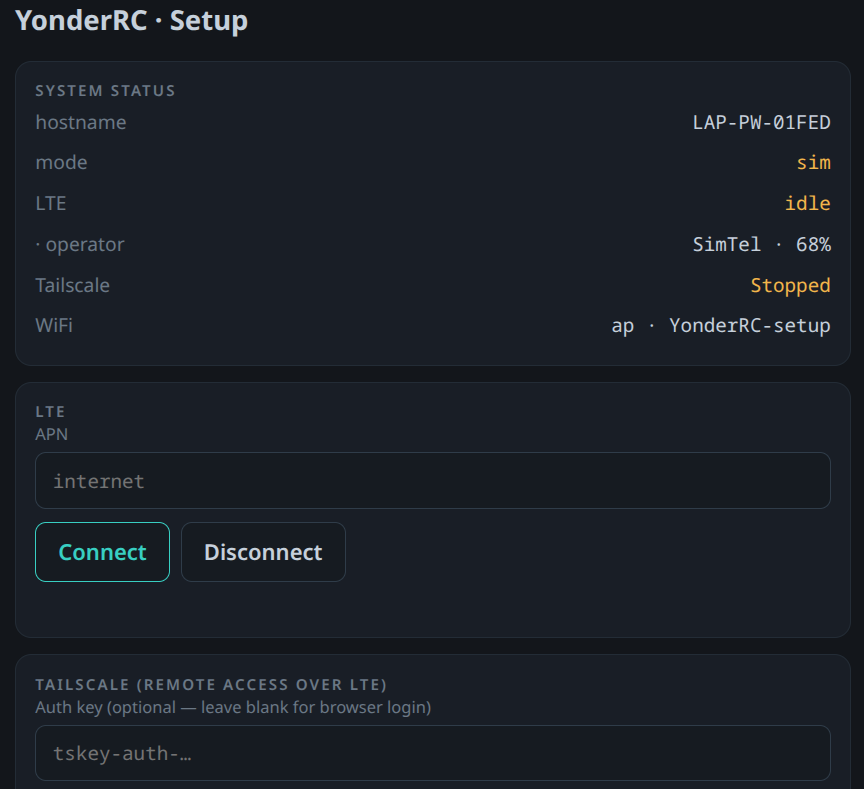
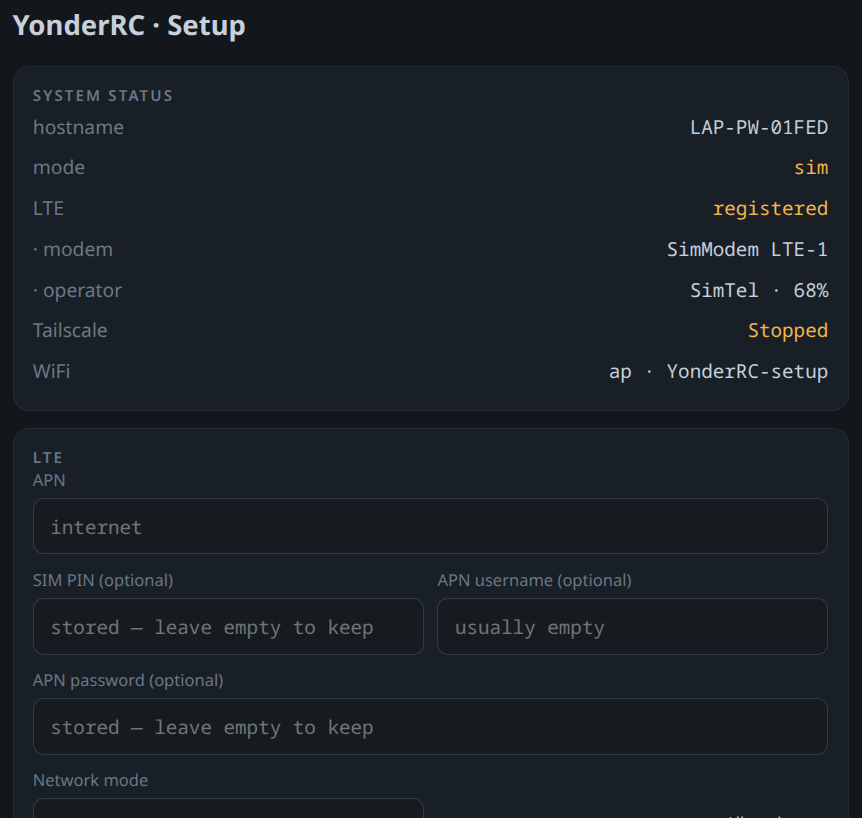
docs: refresh screenshots (v1.20.4) + update README captions (EN/DE) — GPS/home compass/odometer/speed, link signal, richer LTE setup, Setup↗, WebRTC toggle

diff --git a/README.de.md b/README.de.md
@@ -11,10 +11,12 @@ Alles ist **im Simulator lauffähig — ganz ohne Hardware**. Für den echten Au
 auf dem Pi (Teileliste, Verkabelung, Schritt für Schritt WLAN → LTE) siehe
 [`docs/HARDWARE.de.md`](docs/HARDWARE.de.md).
 
-![Bodenstation im Fahrbetrieb: FPV-Video mit OSD — Akku-Ladebalken oben rechts, Link/Latenz und Akkudaten unten rechts, Kanalbalken unten links](docs/screenshots/Overview_OSD.png)
+![Bodenstation im Fahrbetrieb: FPV-Video mit vollem OSD — GPS-Fix und Home-Kompass mit Distanz, Odometer und Speed oben links, Akku-Balken oben rechts, Link-Signal und Stats unten rechts](docs/screenshots/Overview_OSD.png)
 
-*Bodenstation im Fahrbetrieb: latenzarmes FPV-Video mit OSD — Akku-Ladebalken oben
-rechts, Link/Latenz-Daten und Spannung/Strom/Kapazität unten rechts.*
+*Bodenstation im Fahrbetrieb: latenzarmes FPV mit vollem OSD — GPS-Fix + **Home-Kompass,
+Distanz, Odometer und Speed** (oben links), Akku-Balken (oben rechts) sowie das
+**Link-Signal** + Steuer-/Video-Latenz, Bitrate, FPS und Loss (unten rechts). Ein
+**Setup ↗**-Shortcut öffnet die Setup-Seite des Fahrzeugs.*
 
 ---
 
@@ -27,10 +29,11 @@ rechts, Link/Latenz-Daten und Spannung/Strom/Kapazität unten rechts.*
   wählbarer Eingabemethode und pro Achse einstellbarem Einrasten (Mitte/Min/frei).
 - Pro Kanal Trim, Expo, Reverse, Endpunkte (µs) und Failsafe-Wert.
 
-![Touch-Steuerung mit Gas-/Lenk-Joysticks, Lights/Horn-Buttons und Status-Leiste](docs/screenshots/TouchInputs_and_Status.png)
+![Touch-Steuerung mit Gas-/Lenk-Joysticks, Lights/Horn-Buttons, WebRTC-Steuerschalter und Status-Leiste](docs/screenshots/TouchInputs_and_Status.png)
 
-*Touch-Steuerung (Multitouch-Joysticks, belegbare Buttons) mit Status-Leiste:
-Link, Zustand, Round-Trip, Eingabemethode, Fahrzeug/Treiber, Telemetrie.*
+*Touch-Steuerung (Multitouch-Joysticks, belegbare Buttons), der optionale
+**WebRTC-Steuerkanal**-Schalter und eine Status-Leiste: Link, Zustand, Round-Trip,
+Eingabemethode, Fahrzeug/Treiber, Telemetrie.*
 
 **Sicherheit**
 - Zeitbasierter **Failsafe-Watchdog**: bleiben Steuer-Frames aus, gehen alle Kanäle
@@ -88,10 +91,11 @@ Disarm — der Throttle-Kanal wird sichtbar sicher gehalten, solange disarmed.*
   Bildschirm. Die Boden-App hat einen **„Setup ↗"-Shortcut**, der sie für das
   verbundene Fahrzeug öffnet (im LAN, über den AP des Pi oder eine VPN-Adresse).
 
-  ![Setup-Seite des Fahrzeugs: System-Status, LTE-APN, Tailscale](docs/screenshots/VehicleConfig_Setup.png)
+  ![Setup-Seite des Fahrzeugs: System-Status (LTE-Modem, Betreiber, Tailscale, WiFi) und der LTE-Bereich mit APN, SIM-PIN, APN-Auth und Netzmodus](docs/screenshots/VehicleConfig_Setup.png)
 
-  *Setup-Seite direkt vom Fahrzeug: System-Status (Modus, LTE, Fernzugriff, WiFi)
-  und die gesamte Konfiguration — bedienbar vom Handy ohne Bildschirm.*
+  *Setup-Seite direkt vom Fahrzeug: System-Status (Modus, LTE-Modem/Betreiber,
+  Fernzugriff, WiFi) und der robuste **LTE**-Bereich — APN, SIM-PIN, APN-Benutzer/Passwort
+  und Netzmodus. Bedienbar vom Handy ohne Bildschirm.*
 - **Fernzugriff, eine Methode wählen**: **Tailscale** oder **ZeroTier** (Zero-Config-
   Mesh-VPNs) oder **WireGuard** — einfach die von deinem eigenen Server oder einer
   **FritzBox** exportierte **`.conf` hochladen**. Kommt beim Boot automatisch hoch.

diff --git a/README.md b/README.md
@@ -11,10 +11,12 @@ Everything runs **in a simulator — with no hardware at all**. For the real bui
 the Pi (parts list, wiring, step by step from Wi-Fi → LTE) see
 [`docs/HARDWARE.md`](docs/HARDWARE.md).
 
-![Ground station while driving: FPV video with OSD — battery charge bar top right, link/latency and battery data bottom right, channel bars bottom left](docs/screenshots/Overview_OSD.png)
+![Ground station while driving: FPV video with a full OSD — GPS fix and home compass with distance, odometer and speed top left, battery bar top right, link signal and stats bottom right](docs/screenshots/Overview_OSD.png)
 
-*Ground station while driving: low-latency FPV video with OSD — battery charge bar
-top right, link/latency data and voltage/current/capacity bottom right.*
+*Ground station while driving: low-latency FPV with a full OSD — GPS fix + **home
+compass, distance, odometer and speed** (top left), battery bar (top right), and the
+**link signal** + control/video latency, bitrate, FPS and loss (bottom right). A
+**Setup ↗** shortcut opens the vehicle's setup page.*
 
 ---
 
@@ -27,10 +29,11 @@ top right, link/latency data and voltage/current/capacity bottom right.*
   selectable input method, and per-axis detent (center/min/free).
 - Per channel: trim, expo, reverse, endpoints (µs) and failsafe value.
 
-![Touch control with throttle/steering joysticks, Lights/Horn buttons and a status strip](docs/screenshots/TouchInputs_and_Status.png)
+![Touch control with throttle/steering joysticks, Lights/Horn buttons, the WebRTC control toggle and a status strip](docs/screenshots/TouchInputs_and_Status.png)
 
-*Touch control (multitouch joysticks, bindable buttons) with a status strip:
-link, state, round-trip, input method, vehicle/driver, telemetry.*
+*Touch control (multitouch joysticks, bindable buttons), the optional **WebRTC control
+channel** toggle, and a status strip: link, state, round-trip, input method,
+vehicle/driver, telemetry.*
 
 **Safety**
 - Time-based **failsafe watchdog**: if control frames stop arriving, every channel
@@ -86,10 +89,11 @@ disarm — the throttle channel is visibly held safe while disarmed.*
   needed. The ground app has a **"Setup ↗" shortcut** that opens it for the connected
   vehicle (works over LAN, the Pi's AP, or a VPN address).
 
-  ![Vehicle setup page: system status, LTE APN, Tailscale](docs/screenshots/VehicleConfig_Setup.png)
+  ![Vehicle setup page: system status (LTE modem, operator, Tailscale, Wi-Fi) and the LTE section with APN, SIM PIN, APN auth and network mode](docs/screenshots/VehicleConfig_Setup.png)
 
-  *Setup page served by the vehicle: system status (mode, LTE, remote access, Wi-Fi)
-  and all configuration — usable from a phone with no screen.*
+  *Setup page served by the vehicle: system status (mode, LTE modem/operator, remote
+  access, Wi-Fi) and the robust **LTE** section — APN, SIM PIN, APN username/password
+  and network mode. Usable from a phone with no screen.*
 - **Remote access, pick one method**: **Tailscale** or **ZeroTier** (zero-config mesh
   VPNs) or **WireGuard** — just **upload the `.conf`** exported by your own server or a
   **FritzBox**. Brought up automatically at boot.
